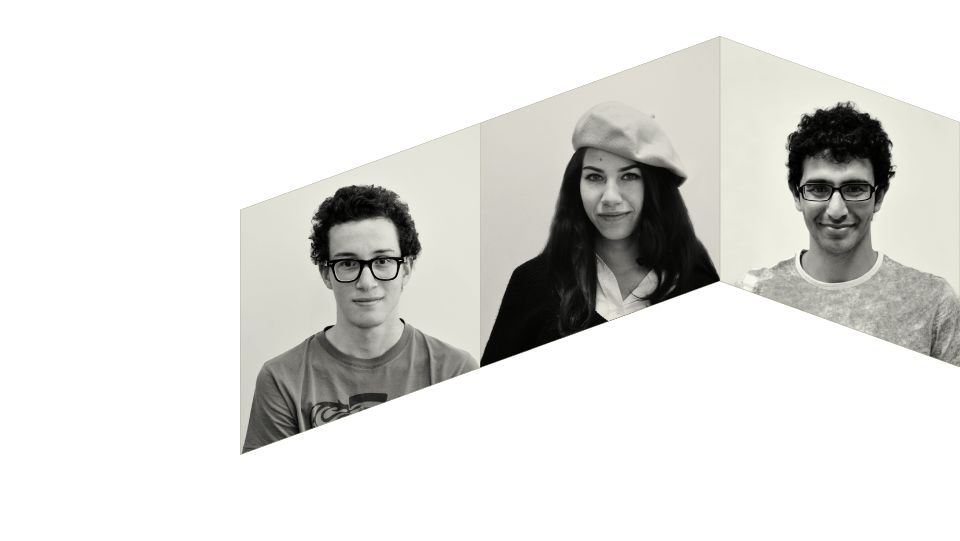
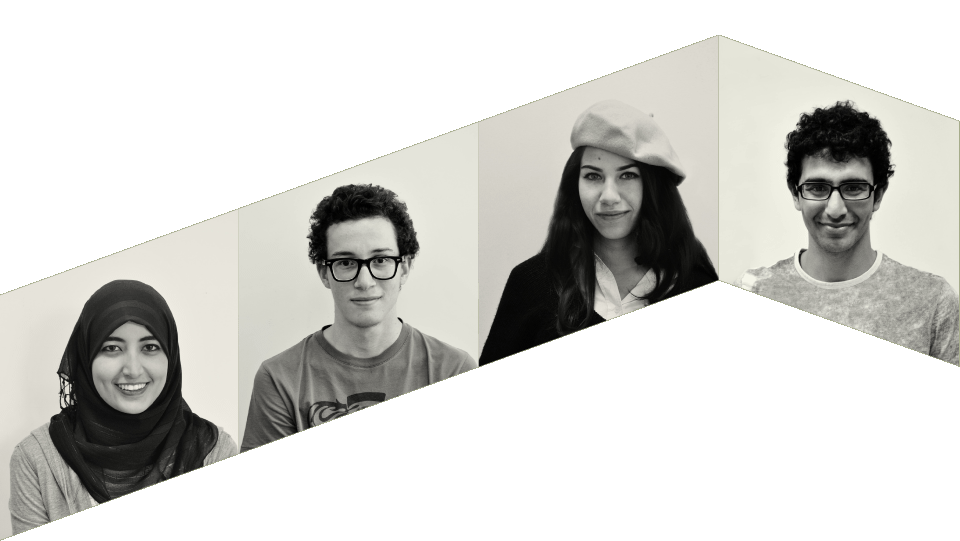
Added new members and sponsors

diff --git a/protected/views/site/team.php b/protected/views/site/team.php
@@ -217,7 +217,7 @@ $this->pageTitle=Yii::app()->name . ' - Team';
 	<div class="members">
 	
 			<div class="names1">
-				<h5 class="firstName">&nbsp;</h5>
+				<h5 class="firstName">Ghada Fikri</h5>
 				<h5 class="secondName">Ali Moussa</h5>
 				<h5 class="thirdName">Rana Elgohary</h5>
 			</div>
@@ -229,7 +229,7 @@ $this->pageTitle=Yii::app()->name . ' - Team';
 			<img class="firstImage" src="img/team/mm/mm2.png" />	
 	
 			<div class="titles1">
-				<h4 class="firstTitle">&nbsp;</h4>
+				<h4 class="firstTitle">Member</h4>
 				<h4 class="secondTitle">Member</h4>
 				<h4 class="thirdTitle">Web Designer</h4>
 			</div>
@@ -239,6 +239,62 @@ $this->pageTitle=Yii::app()->name . ' - Team';
 			</div>
 	
 		</div>
+		
+	<!--4 Images-->
+	
+		<div class="members">
+		
+				<div class="names1">
+					<h5 class="firstName">Al Hassan Elwan</h5>
+					<h5 class="secondName">Nourhan Ayman</h5>
+					<h5 class="thirdName">Omar Kassab</h5>
+				</div>
+		
+				<div class="names2">
+					<h5 class="fourthName">Mohamed Adel</h5>
+				</div>
+		
+				<img class="firstImage" src="img/team/mm/mm3.png" />	
+		
+				<div class="titles1">
+					<h4 class="firstTitle">Member</h4>
+					<h4 class="secondTitle">Member</h4>
+					<h4 class="thirdTitle">Member</h4>
+				</div>
+		
+				<div class="titles2">
+					<h4 class="fourthTitle">Member</h4>
+				</div>
+		
+			</div>
+			
+	<!--4 Images-->
+	
+		<div class="members">
+		
+				<div class="names1">
+					<h5 class="firstName">&nbsp;</h5>
+					<h5 class="secondName">&nbsp;</h5>
+					<h5 class="thirdName">&nbsp;</h5>
+				</div>
+		
+				<div class="names2">
+					<h5 class="fourthName">Sanaa Ahmed</h5>
+				</div>
+		
+				<img class="firstImage" src="img/team/mm/mm4.png" />	
+		
+				<div class="titles1">
+					<h4 class="firstTitle">&nbsp;</h4>
+					<h4 class="secondTitle">&nbsp;</h4>
+					<h4 class="thirdTitle">&nbsp;</h4>
+				</div>
+		
+				<div class="titles2">
+					<h4 class="fourthTitle">Member</h4>
+				</div>
+		
+			</div>
 
 
 
@@ -328,6 +384,35 @@ $this->pageTitle=Yii::app()->name . ' - Team';
 		</div>
 
 	</div>
+	
+	
+		<!--4 Images-->
+	
+		<div class="members">
+	
+			<div class="names1">
+				<h5 class="firstName">&nbsp;</h5>
+				<h5 class="secondName">&nbsp;</h5>
+				<h5 class="thirdName">&nbsp;</h5>
+			</div>
+	
+			<div class="names2">
+				<h5 class="fourthName">Yomna El Gendy</h5>
+			</div>
+	
+			<img class="firstImage" src="img/team/pr/pr4.png" />	
+	
+			<div class="titles1">
+				<h4 class="firstTitle">&nbsp;</h4>
+				<h4 class="secondTitle">&nbsp;</h4>
+				<h4 class="thirdTitle">&nbsp;</h4>
+			</div>
+	
+			<div class="titles2">
+				<h4 class="fourthTitle">Member</h4>
+			</div>
+	
+		</div>
 
 
 	<img id="ashry" src="img/team/ashry_1.png" />

diff --git a/protected/views/site/sponsors.php b/protected/views/site/sponsors.php
@@ -29,7 +29,33 @@ $this->page = 'sponsers';
 		</div>
 		
 		<div class="imageContainer">
-		<a target="_blank" href="https://www.facebook.com/pages/Mili-Power-Egypt/172610439551640"><img src="<?php echo Yii::app()->request->baseUrl; ?>/img/mediaSponsors/mili.jpg" /></a>
+		<a target="_blank" href="https://www.facebook.com/ElMashrou3"><img src="<?php echo Yii::app()->request->baseUrl; ?>/img/mediaSponsors/elmashrou3.jpg" /></a>
+		</div>
+		
+	</div>
+	
+	<div class="sponsorContainer">
+		<h3>Main Sponsors</h3>
+		
+		<div class="imageContainer">
+		<a target="_blank" href="https://www.facebook.com/CadburyEgypt"><img src="<?php echo Yii::app()->request->baseUrl; ?>/img/mainSponsors/cadbury.jpg" /></a>
+		</div>
+		
+		<div class="imageContainer">
+		<a target="_blank" href="https://www.facebook.com/pages/Mili-Power-Egypt/172610439551640"><img src="<?php echo Yii::app()->request->baseUrl; ?>/img/mainSponsors/mili.jpg" /></a>
+		</div>
+		
+		<div class="imageContainer">
+		<a target="_blank" href="http://www.pepsico.com/"><img src="<?php echo Yii::app()->request->baseUrl; ?>/img/mainSponsors/pepsico.jpg" /></a>
+		</div>
+		
+	</div>
+	
+	<div class="sponsorContainer">
+		<h3>Catering Sponsors</h3>
+		
+		<div class="imageContainer">
+		<a target="_blank" href="https://www.facebook.com/saludablefans"><img src="<?php echo Yii::app()->request->baseUrl; ?>/img/cateringSponsors/saludable.jpg" /></a>
 		</div>
 		
 	</div>

diff --git a/protected/views/attendee/complete.php b/protected/views/attendee/complete.php
@@ -1,4 +1,6 @@
-
+<?php
+$this->pageTitle=Yii::app()->name . ' - Submission Complete';
+?>
 
 <section class="application applicationComplete main-container">	
 
